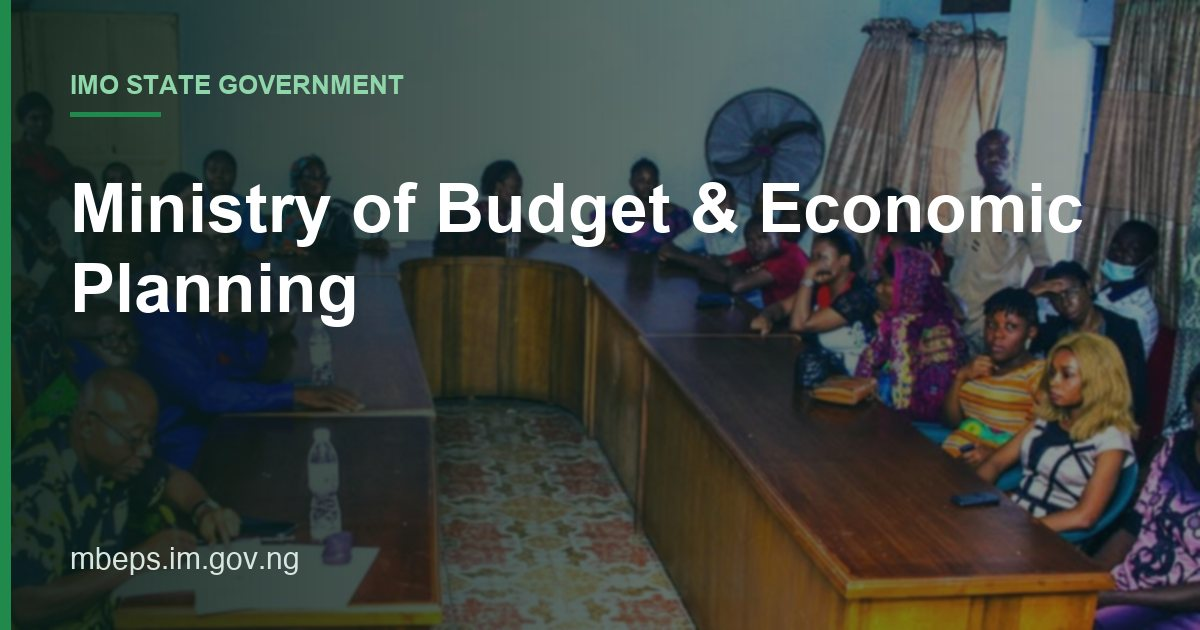
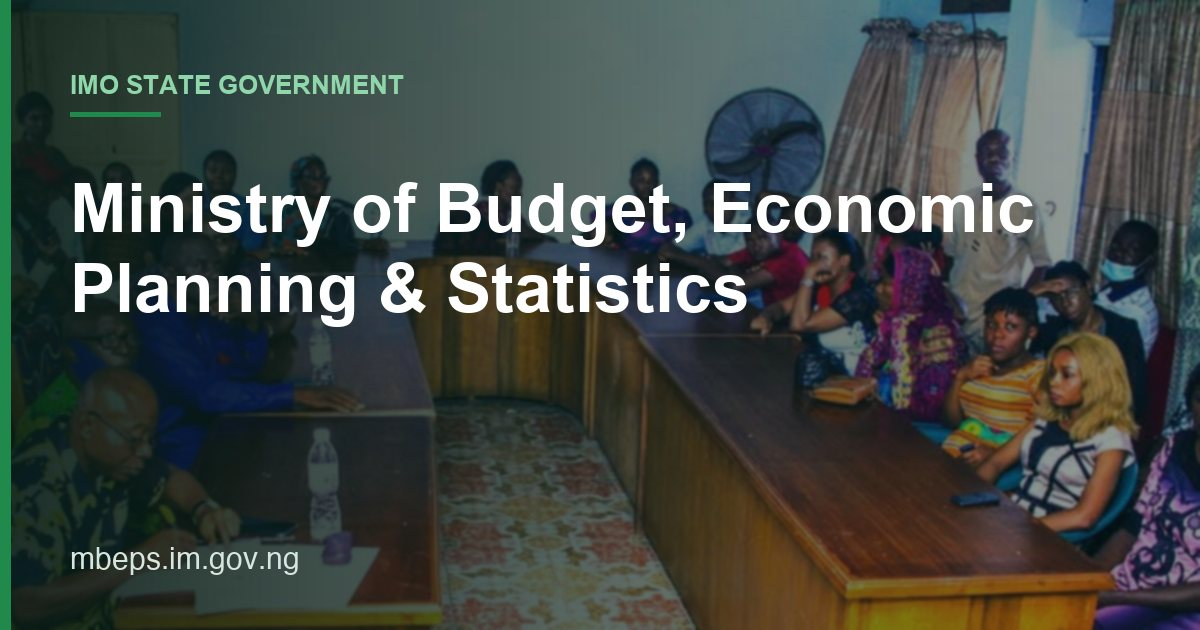
SEO sprint 3 (group 2): titles and descriptions from real service content; official names; dedicated SEO site URL variable

Changed region(s): [[0.555, 0.2714, 0.925, 0.3921], [0.3083, 0.3921, 0.6475, 0.5127]]

diff --git a/src/lib/seo.ts b/src/lib/seo.ts
@@ -1,10 +1,10 @@
 import type { Metadata } from "next";
 
 // Verified production domain (Vercel project domain). Override per environment if needed.
-export const SITE_URL = (process.env.NEXT_PUBLIC_SITE_URL || "https://mbeps.im.gov.ng").replace(/\/$/, "");
-export const SITE_NAME = "Ministry of Budget & Economic Planning";
+export const SITE_URL = (process.env.NEXT_PUBLIC_SEO_SITE_URL || "https://mbeps.im.gov.ng").replace(/\/$/, "");
+export const SITE_NAME = "Ministry of Budget, Economic Planning and Statistics";
 export const DEFAULT_DESCRIPTION =
-  "Official website of the Ministry of Budget & Economic Planning, Imo State Government: services, departments, projects, news and events.";
+  "Official website of the Ministry of Budget, Economic Planning and Statistics, Imo State Government: services, departments, projects, news and events.";
 export const OG_IMAGE_PATH = "/og-image.jpg";
 
 type Title = NonNullable<Metadata["title"]>;

diff --git a/src/app/page.tsx b/src/app/page.tsx
@@ -14,8 +14,8 @@ import Advert from "./components/economic-summit/Advert";
 import { pageMetadata } from "@/lib/seo";
 
 export const metadata = pageMetadata({
-  title: { absolute: "Ministry of Budget & Economic Planning | Imo State Government" },
-  description: "Official website of the Ministry of Budget & Economic Planning, Imo State Government: services, departments, projects, news and events.",
+  title: { absolute: "Imo State Ministry of Budget, Economic Planning and Statistics" },
+  description: "Imo State budget, economic planning and statistics: approved budgets, citizens' budget, budget reports, planning, and monitoring and evaluation.",
   path: "/",
 });
 

diff --git a/src/app/departments/page.tsx b/src/app/departments/page.tsx
@@ -5,8 +5,8 @@ import CTASection from "../components/CTASection";
 import { pageMetadata } from "@/lib/seo";
 
 export const metadata = pageMetadata({
-  title: "Departments",
-  description: "Departments and units of the Ministry of Budget & Economic Planning, Imo State Government.",
+  title: "Budget, Planning and Monitoring Departments",
+  description: "Budget, planning, monitoring and evaluation and international cooperation departments of the Imo State Ministry of Budget, Economic Planning and Statistics.",
   path: "/departments",
 });
 

diff --git a/src/app/contact-us/page.tsx b/src/app/contact-us/page.tsx
@@ -9,7 +9,7 @@ import { pageMetadata } from "@/lib/seo";
 
 export const metadata = pageMetadata({
   title: "Contact Us",
-  description: "Contact the Ministry of Budget & Economic Planning, Imo State Government: office location and ways to reach the ministry.",
+  description: "Contact the Ministry of Budget, Economic Planning and Statistics, Imo State Government: office location and ways to reach the ministry.",
   path: "/contact-us",
 });
 

diff --git a/src/app/about-us/page.tsx b/src/app/about-us/page.tsx
@@ -10,7 +10,7 @@ import { pageMetadata } from "@/lib/seo";
 
 export const metadata = pageMetadata({
   title: "About Us",
-  description: "About the Ministry of Budget & Economic Planning of the Imo State Government: who we are and what we do.",
+  description: "About the Ministry of Budget, Economic Planning and Statistics of the Imo State Government: who we are and what we do.",
   path: "/about-us",
 });
 

diff --git a/src/app/news/page.tsx b/src/app/news/page.tsx
@@ -8,7 +8,7 @@ import { pageMetadata } from "@/lib/seo";
 
 export const metadata = pageMetadata({
   title: "News",
-  description: "Latest news, announcements and updates from the Ministry of Budget & Economic Planning, Imo State.",
+  description: "Latest news, announcements and updates from the Ministry of Budget, Economic Planning and Statistics, Imo State.",
   path: "/news",
 });
 

diff --git a/src/app/media/page.tsx b/src/app/media/page.tsx
@@ -9,7 +9,7 @@ import { pageMetadata } from "@/lib/seo";
 
 export const metadata = pageMetadata({
   title: "Media Gallery",
-  description: "Photo and media gallery of the Ministry of Budget & Economic Planning, Imo State Government.",
+  description: "Photo and media gallery of the Ministry of Budget, Economic Planning and Statistics, Imo State Government.",
   path: "/media",
 });
 

diff --git a/src/app/projects/page.tsx b/src/app/projects/page.tsx
@@ -8,7 +8,7 @@ import { pageMetadata } from "@/lib/seo";
 
 export const metadata = pageMetadata({
   title: "Projects",
-  description: "Projects and programmes of the Ministry of Budget & Economic Planning, Imo State Government.",
+  description: "Projects and programmes of the Ministry of Budget, Economic Planning and Statistics, Imo State Government.",
   path: "/projects",
 });
 

diff --git a/src/app/events/page.tsx b/src/app/events/page.tsx
@@ -9,7 +9,7 @@ import { pageMetadata } from "@/lib/seo";
 
 export const metadata = pageMetadata({
   title: "Events",
-  description: "Events organised by the Ministry of Budget & Economic Planning, Imo State Government.",
+  description: "Events organised by the Ministry of Budget, Economic Planning and Statistics, Imo State Government.",
   path: "/events",
 });
 
